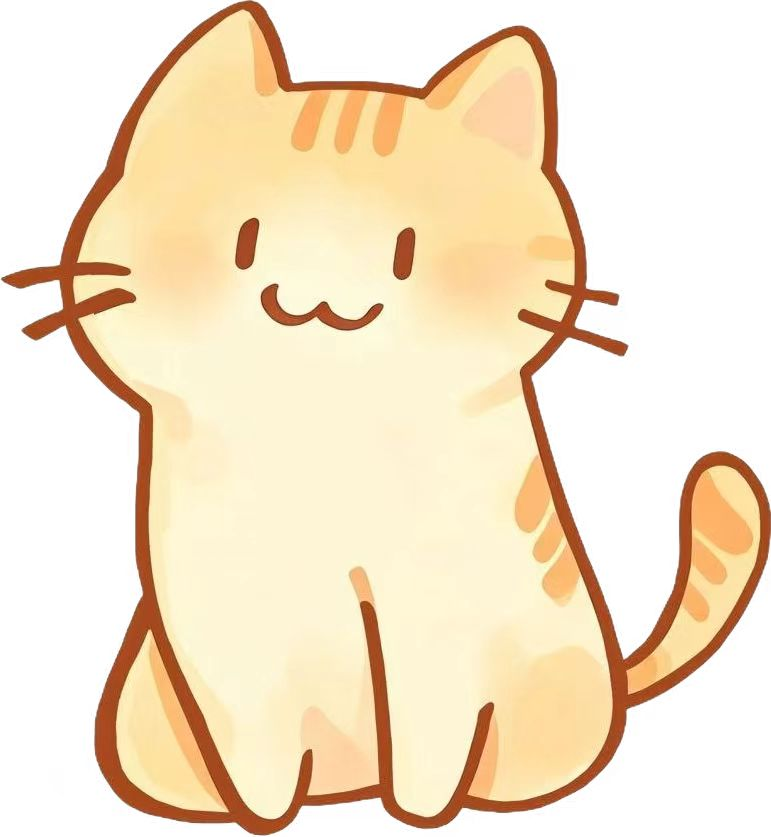
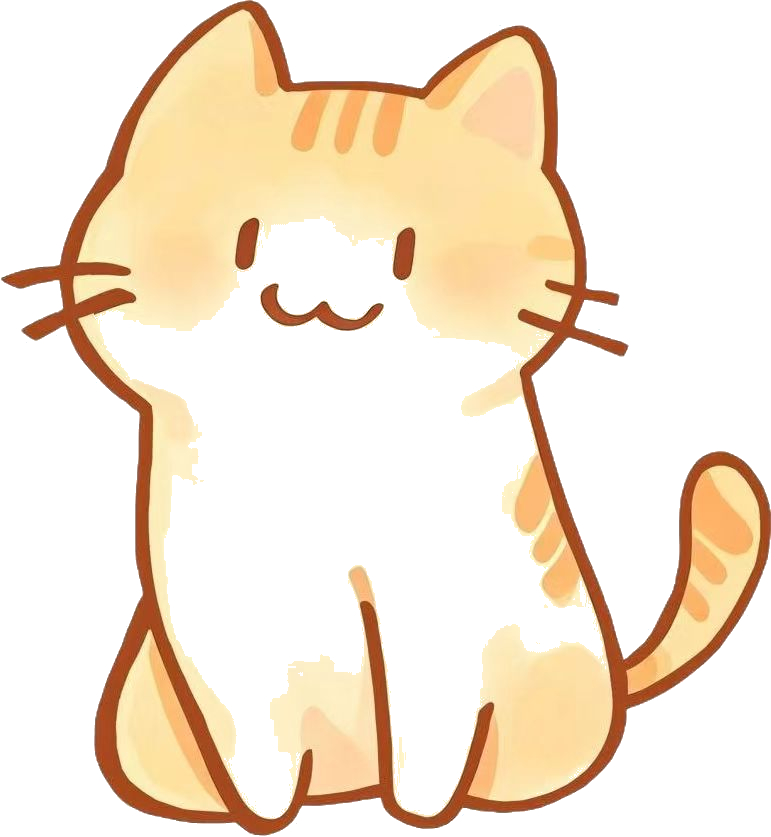
fix: 猫 PNG 透明背景 + 正方形头部 + 浮球显示完整坐姿猫
修复 Jade 反馈的 3 个问题：

## 1. 背景不透明
- 原 base.jpg 是 JPG（Jade 发的是 PNG，但落到微信里变成了 JPG）
- 浅米色背景在 UI 上突兀
- 用 PIL 检测浅色像素（R>235 G>220 B>200）→ alpha=0
- 输出真正的透明 PNG

## 2. 头部被拉伸成竖条
- 原 head.png 是 710×600，1.18:1 比例
- 在 24×24 / 32×32 容器里用 objectFit: cover 被拉伸
- 重新裁剪为 580×580 正方形 + objectFit: contain（不拉伸）
- MainWindow 标题栏 24→28px, ChatPanel 右上 32→36px 更清晰

## 3. 悬浮球不要圆形容器
- tauri.conf.json float-ball 窗口 56×56 → 110×120
- reminder.rs set_float_mode compact 模式尺寸 56×56 → 110×120
- FloatBall.tsx compact 模式：去掉所有 background/border/radius，直接渲染完整坐姿猫 PNG
- Cat.tsx variant="full" + size={96} 显示完整猫
- 没圆形边框/背景限制，猫直接显示在桌面上

Changed region(s): [[0.1245, 0.2485, 0.7782, 0.994]]

diff --git a/src/components/FloatBall.tsx b/src/components/FloatBall.tsx
@@ -309,7 +309,7 @@ export function FloatBall() {
 
   const showPrompt = followup.active ? followup.question : prompt;
 
-  /* === COMPACT: just the cat === */
+  /* === COMPACT: just the cat (no chrome) === */
   if (mode === "compact") {
     return (
       <motion.div
@@ -319,17 +319,20 @@ export function FloatBall() {
         onMouseLeave={endPointer}
         onClick={handleCompactClick}
         onDoubleClick={openMain}
-        animate={hasUnread ? { scale: [1, 1.08, 1] } : { scale: 1 }}
-        transition={hasUnread ? { duration: 1.5, repeat: Infinity } : {}}
+        animate={hasUnread ? { y: [0, -3, 0] } : { y: 0 }}
+        transition={hasUnread ? { duration: 1.2, repeat: Infinity } : {}}
         style={{
           width: "100%", height: "100%",
           display: "flex", alignItems: "center", justifyContent: "center",
+          background: "transparent",
           cursor: "grab", position: "relative",
+          overflow: "visible",
         }}
       >
         <Cat
           mood={hasUnread ? "curious" : catMood}
-          size={48}
+          size={96}
+          variant="full"
           hasNotification={hasUnread}
         />
       </motion.div>

diff --git a/src/components/Cat.tsx b/src/components/Cat.tsx
@@ -101,8 +101,8 @@ export function Cat({
           style={{
             width: size,
             height: size,
-            objectFit: variant === "full" ? "contain" : "cover",
-            objectPosition: variant === "head" ? "center 22%" : "center",
+            objectFit: "contain",
+            objectPosition: "center center",
             pointerEvents: "none",
             userSelect: "none",
             display: "block",

diff --git a/src/components/MainWindow.tsx b/src/components/MainWindow.tsx
@@ -448,7 +448,7 @@ export function MainWindow() {
         style={{ padding: "8px 12px 4px 12px" }}
       >
         <div className="flex items-center" style={{ gap: "8px" }}>
-          <Cat mood={catMood} size={24} hasNotification={false} />
+          <Cat mood={catMood} size={28} variant="head" hasNotification={false} />
           <span
             data-tauri-drag-region
             className="label-caps"

diff --git a/src/components/ChatPanel.tsx b/src/components/ChatPanel.tsx
@@ -187,7 +187,7 @@ export function ChatPanel() {
           <div className="label-caps" style={{ color: "var(--text-tertiary)" }}>
             {onboarding ? "初次见面" : "现在"}
           </div>
-          <Cat mood={catMood} size={32} hasNotification={false} />
+          <Cat mood={catMood} size={36} variant="head" hasNotification={false} />
         </div>
       </div>
 

diff --git a/src-tauri/src/commands/reminder.rs b/src-tauri/src/commands/reminder.rs
@@ -52,7 +52,7 @@ pub async fn set_float_mode(app: AppHandle, mode: String) -> Result<(), String> 
 
     let (target_w, target_h): (u32, u32) = match mode.as_str() {
         "expanded" => (480, 340),
-        _ => (56, 56), // compact
+        _ => (110, 120), // compact
     };
 
     let old_pos = float_win.outer_position().map_err(|e| e.to_string())?;
